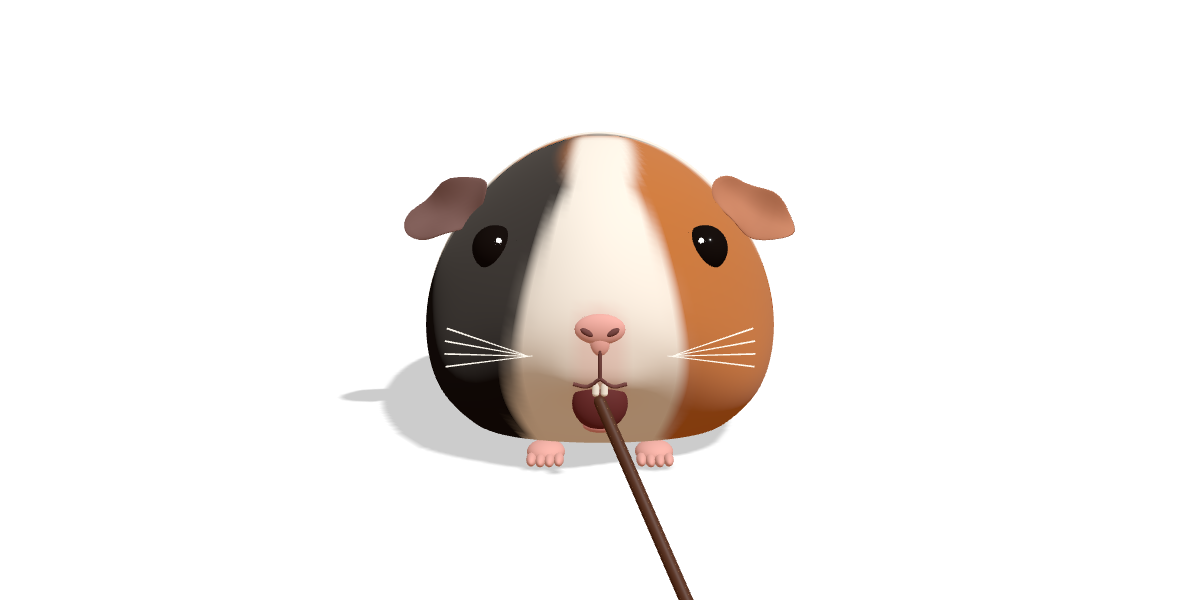
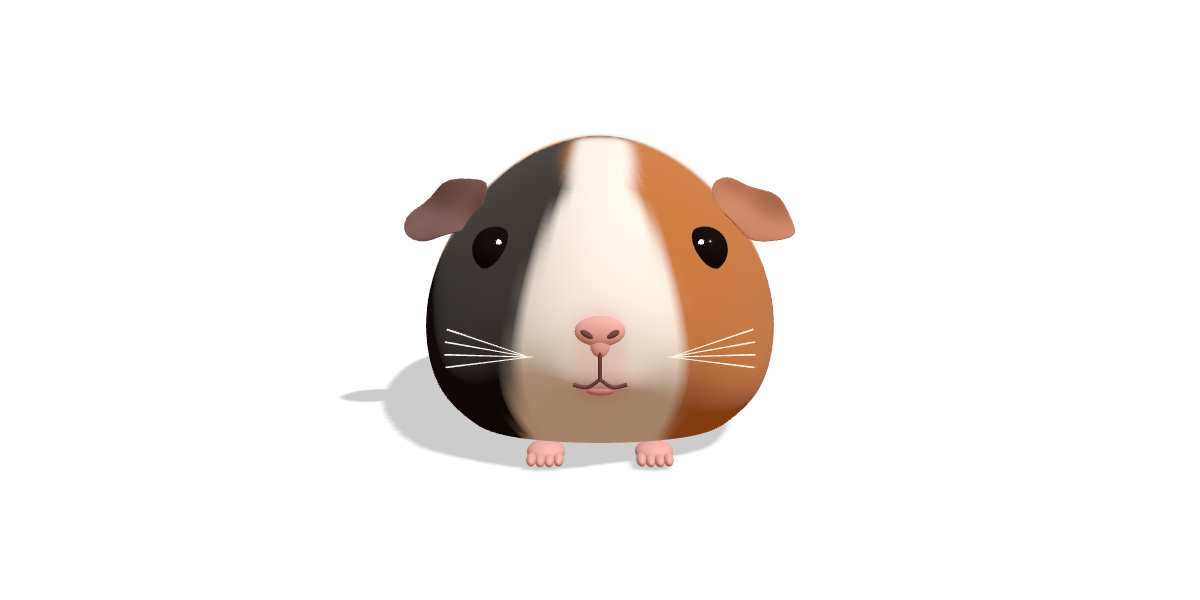
상자를 톡 눌러 고른 뒤 끌기, 바삭 소리 교체, 미리보기 그림 교체

diff --git a/index.html b/index.html
@@ -253,10 +253,24 @@ function unlock() {
   } catch (e) {}
   if (!ac) { try { ac = new (window.AudioContext || window.webkitAudioContext)(); } catch (e) {} }
   if (ac && ac.state !== 'running') ac.resume().catch(() => {});
+  prep();
 }
 ['pointerdown', 'pointerup', 'touchend', 'click'].forEach(n => addEventListener(n, unlock, true));
+// 바삭 소리: img/crunch.wav = 0.1초 칸 5개. 출처 "crunch" · "crunch 2" by Gravity Sound (CC BY 4.0, Wikimedia Commons)에서 잘라 씀
+let snapData = null, snaps = null;
+fetch('img/crunch.wav').then(r => r.arrayBuffer()).then(b => { snapData = b; prep(); }).catch(() => {});
+function prep() { if (ac && !snaps && snapData) { const d = snapData; snapData = null; ac.decodeAudioData(d, b => { snaps = b; }, () => {}); } }
 function crunch() {
   if (!ac) return;
+  if (snaps) {                                              // 앞니로 '오' '독' 두 번
+    const i = Math.floor(Math.random() * 5), j = (i + 1 + Math.floor(Math.random() * 4)) % 5;
+    [[i, 0, 0.92], [j, 0.085, 1.12]].forEach(([k, at, rate]) => {
+      const src = ac.createBufferSource(), gain = ac.createGain();
+      src.buffer = snaps; src.playbackRate.value = rate * (0.95 + Math.random() * 0.1); gain.gain.value = 0.9;
+      src.connect(gain).connect(ac.destination); src.start(ac.currentTime + at, k * 0.1, 0.1);
+    });
+    return;
+  }
   const n = ac.sampleRate * 0.08, buf = ac.createBuffer(1, n, ac.sampleRate), d = buf.getChannelData(0);
   for (let i = 0; i < n; i++) d[i] = (Math.random() * 2 - 1) * (1 - i / n) ** 2;
   const src = ac.createBufferSource(), hp = ac.createBiquadFilter(), gain = ac.createGain();
@@ -346,13 +360,11 @@ function setH(x, y) {
   plane.setFromNormalAndCoplanarPoint(toCam, MOUTH_LOCAL.clone().addScaledVector(toCam, 0.15));
   ray.ray.intersectPlane(plane, H);
 }
-let activeBox = null;
-const dropBox = () => { if (activeBox) { activeBox.classList.remove('on'); activeBox = null; } };
-function startDrag(f, x, y, el) {
+let selBox = null, tap = null;                              // 고른 상자, 누르는 중인 상자
+function startDrag(f, x, y) {
   if (state !== 'idle' || stick) return;
   if (hint) { hint.remove(); hint = null; try { localStorage.setItem('fed', '1'); } catch (e) {} }
   flavor = f; stick = makeStick(f); scene.add(stick); dragging = true; setH(x, y); stick.position.copy(H);
-  if (el) { activeBox = el; el.classList.add('on'); }
 }
 function endDrag() {
   if (!dragging) return;
@@ -360,18 +372,28 @@ function endDrag() {
   const m = mouthWorld(), dist = m.distanceTo(H);
   if (dist - LEN < 0.4) {                                   // 입 가까이에서 놓음 → 먹기
     eat = { t: 0, bite: 0, ins: 0, a0: m.sub(H).normalize() }; state = 'eat';
-  } else { scene.remove(stick); stick = null; dropBox(); }
+  } else { scene.remove(stick); stick = null; }
 }
 const tray = document.getElementById('tray');
 FLAVORS.forEach(f => {
   const b = document.createElement('div'); b.className = 'box';
   b.innerHTML = `<img src="img/box_${f.img}.png" alt="${f.name}" draggable="false">`;
-  b.onpointerdown = e => { e.preventDefault(); startDrag(f, e.clientX, e.clientY, b); };
+  b.onpointerdown = e => {
+    e.preventDefault();
+    if (b === selBox) startDrag(f, e.clientX, e.clientY);   // 고른 상자만 끌 수 있다
+    else tap = { b, x: e.clientX, y: e.clientY };
+  };
   tray.appendChild(b);
 });
 addEventListener('pointermove', e => { if (dragging) setH(e.clientX, e.clientY); });
-addEventListener('pointerup', endDrag);
-addEventListener('pointercancel', endDrag);
+addEventListener('pointerup', e => {
+  if (tap && Math.hypot(e.clientX - tap.x, e.clientY - tap.y) < 12) {   // 톡 누름 → 고르기
+    if (selBox) selBox.classList.remove('on');
+    selBox = tap.b; selBox.classList.add('on');
+  }
+  tap = null; endDrag();
+});
+addEventListener('pointercancel', () => { tap = null; endDrag(); });
 addEventListener('contextmenu', e => e.preventDefault());
 
 // ---------- 매 프레임 ----------
@@ -399,7 +421,7 @@ function frame(ms) {
     placeStick(mouthWorld().addScaledVector(a, -(LEN - eat.ins)), a, 0.45);
     openT = 0.2 + 0.45 * Math.abs(Math.sin(eat.t * 23));
     if (eat.t > 7 * 0.27 + 0.25) {
-      scene.remove(stick); stick = null; eat = null; eaten++; drawDots(); dropBox();
+      scene.remove(stick); stick = null; eat = null; eaten++; drawDots();
       if (eaten >= NEED) { state = 'happy'; pig.userData.setHappy(true); hearts(); squeak(3); }
       else { state = 'idle'; squeak(1); }
       st = 0;
@@ -448,8 +470,10 @@ if (!seen && !q.has('demo')) {
   const r = tray.children[0].getBoundingClientRect(), m = mouthWorld().project(camera);
   const from = `translate(${r.left + r.width / 2 - 16}px, ${r.top + 8}px)`;
   const to = `translate(${(m.x + 1) / 2 * innerWidth - 16}px, ${(1 - m.y) / 2 * innerHeight + 6}px)`;
-  hint.animate([{ transform: from, opacity: 0 }, { transform: from, opacity: 1, offset: 0.15 }, { transform: to, opacity: 1, offset: 0.8 }, { transform: to, opacity: 0 }],
-    { duration: 2200, iterations: Infinity });
+  hint.animate([{ transform: from, opacity: 0 }, { transform: from, opacity: 1, offset: 0.1 },
+    { transform: from + ' scale(.75)', opacity: 1, offset: 0.18 }, { transform: from, opacity: 1, offset: 0.26 },
+    { transform: from, opacity: 1, offset: 0.42 }, { transform: to, opacity: 1, offset: 0.85 }, { transform: to, opacity: 0 }],
+    { duration: 3000, iterations: Infinity });
 }
 if (q.has('eaten')) { eaten = +q.get('eaten'); drawDots(); }
 // 시험용: ?demo=맛 번호 → 스스로 끌어다 먹인다
@@ -462,7 +486,7 @@ if (q.has('demo')) {
   };
   step();
 }
-window.__dbg = () => `${state} pigs=${pigs} ac=${ac && ac.state} hush=${hush && !hush.paused} eaten=${eaten} x=${pig.position.x.toFixed(2)} open=${open.toFixed(2)} stick=${!!stick}`;   // 시험용
+window.__dbg = () => `${state} pigs=${pigs} snd=${!!snaps} sel=${selBox ? [...tray.children].indexOf(selBox) : -1} ac=${ac && ac.state} hush=${hush && !hush.paused} eaten=${eaten} x=${pig.position.x.toFixed(2)} open=${open.toFixed(2)} stick=${!!stick}`;   // 시험용
 renderer.setAnimationLoop(frame);
 </script>
 </body>
